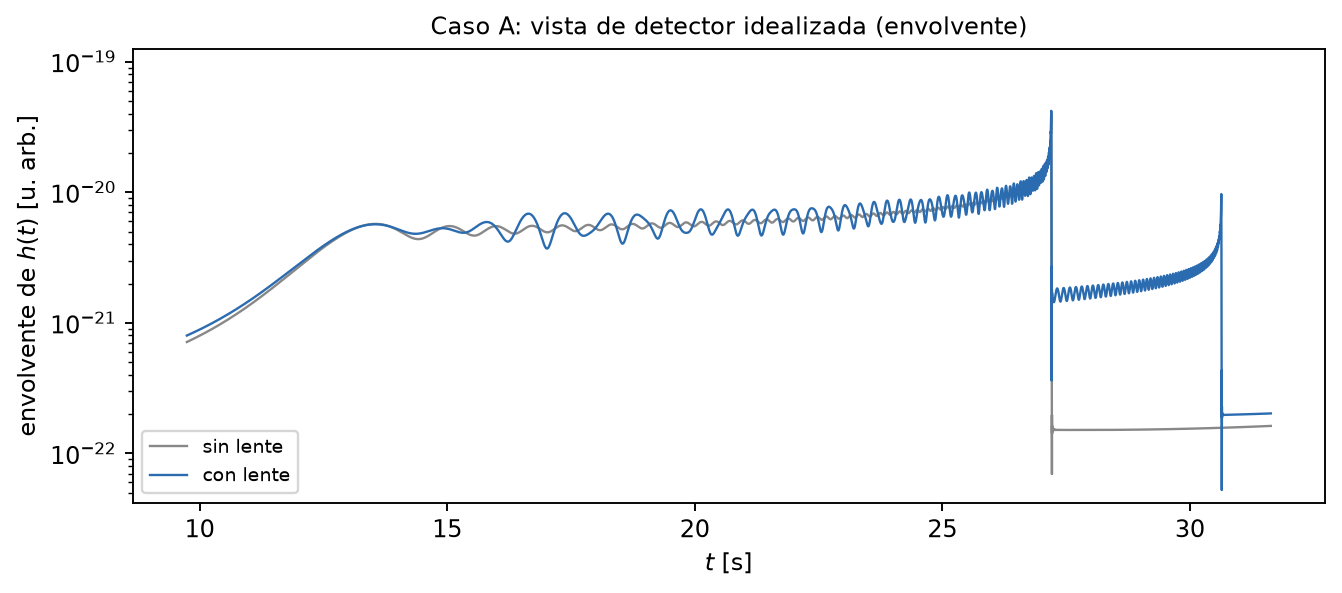
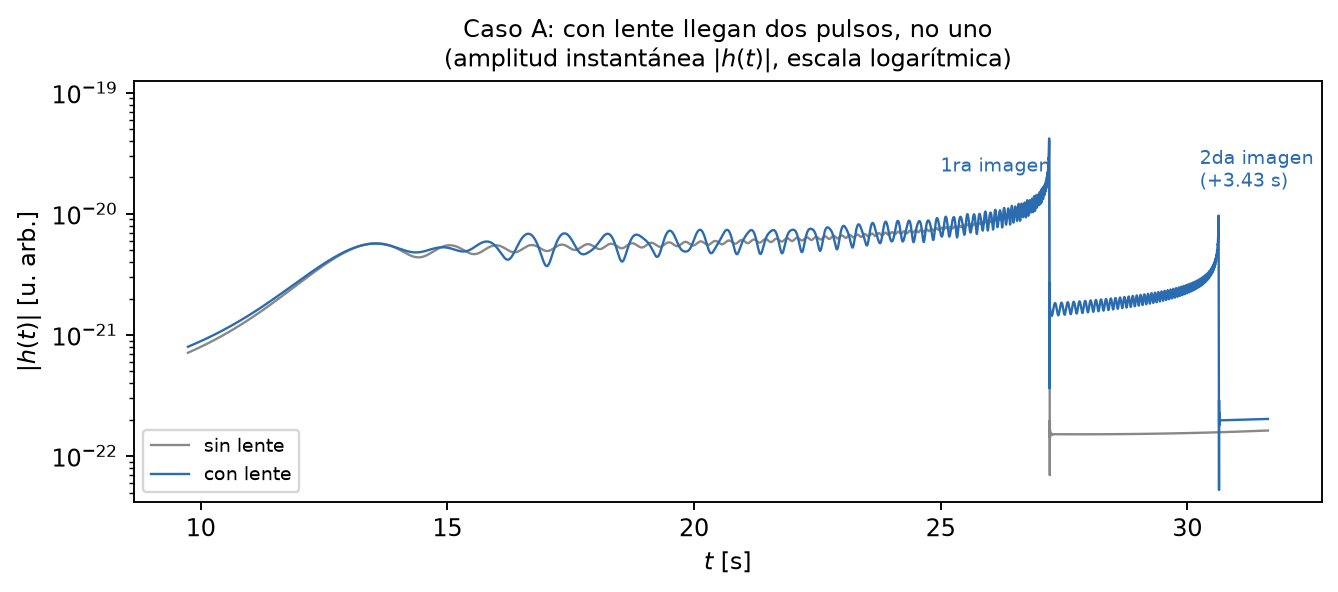
Show the interference as a ratio, and say what the detector figure is
caseA_strain_time.png's fourth panel was the difference of the two waveforms.
It is now the ratio, which is a different statement and the one the figure is
for. Dividing the lensed analytic signal by the unlensed one leaves |F|, and
since the chirp sweeps frequency monotonically, plotting that against time
sweeps out F's interference fringes: the curve runs between
sqrt(mu_+) -/+ sqrt(|mu_-|) from end to end, and the fringes crowd towards
the merger because df/dt does -- 1.0 fringes per second at 10 Hz against 93
per second at 36 Hz. It is caseA_F_of_f.png's constant 0.29 Hz fringe period
seen through f(t). The difference instead isolated the second image as a
delayed copy, which is about arrival times; the second image is already
visible in the second panel and is now labelled outright in the detector
figure.

caseA_detector_envelope.png was titled "vista de detector idealizada
(envolvente)", which named what the figure is made of rather than what it
shows, and "envolvente" was doing too much work. It is a time-domain figure,
not a spectrum: the y axis is now |h(t)|, the instantaneous amplitude, and
the title says the finding -- with the lens a detector records two arrivals
where there was one event. Both arrivals are labelled on the curve.

The ripple on the unlensed envelope, measured rather than guessed. It is an
artefact of building the waveform in the frequency domain with a hard band
edge at f_lower=10 Hz and transforming back: a chirp whose spectrum is cut
[…]

diff --git a/cases/case_A_chirp/run.py b/cases/case_A_chirp/run.py
@@ -500,21 +500,31 @@ def main():
     axes[2].set_title("ampliación: la primera imagen", fontsize=9.5)
     axes[2].legend(loc="lower left", fontsize=8)
 
-    # Windowed on the merger and the echo, not on the whole chirp: over the
-    # full 15 s the (sqrt(mu_+)-1) residual under the inspiral is a dense
-    # green band that fills the panel and visually buries the very feature
-    # the subtraction exists to expose. From half a second before the merger
-    # to half a second after the echo, the two things left are the 3%
-    # residual of the merger itself and, Delta_T later, the second image at
-    # its full sqrt(|mu_-|) -- roughly 8x taller, against a flat zero.
-    dview = (t >= t_peak - 0.5) & (t <= echo_t + 0.5)
-    axes[3].plot(t[dview] - t_peak, h_diff[dview], lw=0.7, color="#2ca02c")
-    axes[3].axvline(NUMBERS["image_time_delay_seconds"], color="0.55", lw=0.9, ls=":")
+    # The RATIO of the envelopes, not their difference. The difference isolates
+    # the second image -- a delayed copy of the whole signal -- which is a
+    # statement about arrival times. The ratio is a statement about
+    # interference, which is what the lens actually does to the waveform here:
+    # dividing the lensed analytic signal by the unlensed one leaves |F|, and
+    # because the chirp sweeps frequency monotonically, plotting it against
+    # time sweeps out F's interference fringes. It oscillates between
+    # sqrt(mu_+) -/+ sqrt(|mu_-|) throughout, and the fringes crowd together
+    # towards the merger because df/dt does: measured, 1.0 fringes per second
+    # at 10 Hz against 93 per second at 36 Hz. The fringe period is constant
+    # in FREQUENCY (0.29 Hz, caseA_F_of_f.png); this is that same curve seen
+    # through f(t).
+    #
+    # Cut before the merger: past it the unlensed signal decays into the
+    # ringdown while the lensed one still carries the second image, so the
+    # ratio stops measuring interference and starts diverging.
+    rview = (t >= t_peak - NUMBERS["t_end_seconds"] + 1.0) & (t <= t_peak - 0.25)
+    ratio = np.abs(env_l[rview]) / np.abs(env_u[rview])
+    axes[3].plot(t[rview] - t_peak, ratio, lw=0.6, color="#6b46c1")
+    for lvl in (sqrt_mu_plus - sqrt_mu_minus, sqrt_mu_plus + sqrt_mu_minus):
+        axes[3].axhline(lvl, color="#c05621", lw=0.9, ls="--")
     axes[3].set_xlabel(r"$t - t_\mathrm{merger}$ [s]")
-    axes[3].set_ylabel("$h_{\\rm lente}-h_{\\rm sin}$ [u. arb.]")
-    axes[3].set_title(
-        f"la resta: la segunda imagen, en "
-        f"$+{NUMBERS['image_time_delay_seconds']:.2f}$ s", fontsize=9.5)
+    axes[3].set_ylabel("con lente / sin lente")
+    axes[3].set_title("el cociente: la interferencia entre las dos imágenes",
+                      fontsize=9.5)
     fig.tight_layout()   # before the suptitle; see caseA_F_of_f above for why
     fig.suptitle("Caso A: qué le hace el lente a la forma de onda",
                  fontsize=11, y=1.012)
@@ -623,10 +633,21 @@ def main():
     # same window as Figure 2's overview panel above -- identical expression, reused rather than rebuilt
     ax.plot(t[view], env_u[view], color="#888888", lw=1.0, label="sin lente")
     ax.plot(t[view], env_l[view], color="#2b6cb0", lw=1.0, label="con lente")
+    ax.annotate("1ra imagen", xy=(t_peak, float(np.max(env_l))),
+                xytext=(-46, -14), textcoords="offset points", fontsize=8,
+                color="#2b6cb0")
+    ax.annotate("2da imagen\n($+%.2f$ s)" % (echo_t - t_peak),
+                xy=(echo_t, NUMBERS["echo_peak_env_lensed"]),
+                xytext=(-8, 12), textcoords="offset points", fontsize=8,
+                color="#2b6cb0")
     ax.set_yscale("log")
     ax.set_xlabel("$t$ [s]")
-    ax.set_ylabel("envolvente de $h(t)$ [u. arb.]")
-    ax.set_title("Caso A: vista de detector idealizada (envolvente)", fontsize=10)
+    ax.set_ylabel("$|h(t)|$ [u. arb.]")
+    # Retitled: "vista de detector idealizada (envolvente)" said what the
+    # figure was made of, not what it shows. What it shows is that the lens
+    # turns one event into two arrivals.
+    ax.set_title("Caso A: con lente llegan dos pulsos, no uno\n"
+                 "(amplitud instantánea $|h(t)|$, escala logarítmica)", fontsize=10)
     # Lower left: the top right of this axes is where the merger peak and the
     # echo both are, and a legend there covered them. The green band that
     # used to mark the echo is gone for the same reason -- it shaded the

diff --git a/report/report.tex b/report/report.tex
@@ -121,13 +121,16 @@ arbitrarias, $D_\mathrm{eff}=5$ kpc --- un evento hipot\'etico
 ilustrativamente fuerte y cercano, no una distancia realista en tasa de
 eventos). De arriba abajo: la se\~nal sin lente; la misma con lente, en la
 misma escala, donde a simple vista no se distingue nada salvo el eco
-tard\'io; una ampliaci\'on centrada en la primera imagen; y la
-\textbf{resta} de las dos. La resta es donde el lensing se vuelve visible,
-y por una raz\'on concreta: en \'optica geom\'etrica
-$h_\mathrm{lente}-h_\mathrm{sin}=(\sqrt{\mu_+}-1)\,h(t)+\sqrt{|\mu_-|}\,h(t-\Delta T)$,
-as\'i que restar deja a la segunda imagen sola, repitiendo el chirp, el
-merger y el ringdown enteros $\Delta T$ m\'as tarde al $24\%$ de amplitud
-contra un cero plano.}
+tard\'io; una ampliaci\'on centrada en la primera imagen; y el
+\textbf{cociente} de las dos. El cociente es donde el lensing se vuelve
+visible: dividir la se\~nal anal\'itica lensada por la no lensada deja
+$|F|$, y como el chirp barre frecuencia mon\'otonamente, graficarlo contra
+el tiempo despliega las franjas de interferencia de $F$. Oscila entre
+$\sqrt{\mu_+}\mp\sqrt{|\mu_-|}$ (l\'ineas punteadas) de punta a punta, y las
+franjas se aprietan hacia el merger porque $df/dt$ crece: 1.0 franjas por
+segundo a 10~Hz contra 93 por segundo a 36~Hz. El per\'iodo de franja es
+constante en \emph{frecuencia} (0.29~Hz, primera figura); esta es la misma
+curva vista a trav\'es de $f(t)$.}
 \end{figure}
 
 La amplificaci\'on de la muestra pico es $1.065$ (la muestra $|h(t)|$

diff --git a/cases/FIGURES.md b/cases/FIGURES.md
@@ -49,23 +49,31 @@ panels now use their own dense grid.
 ### `caseA_strain_time.png` — what the lens does to the waveform
 
 Four panels: unlensed strain, lensed strain **on the same scale**, a zoom
-centred on the merger, and the **difference**.
+centred on the merger, and the **ratio** of the two.
 
 The first two are separate panels rather than one overlay. At this time
 resolution the two curves are indistinguishable — which is the point, and is
 worth seeing — and drawing one on top of the other simply hid the lower one.
 
-The fourth panel is where the lensing becomes visible, and it is the answer to
-"does subtracting the two make sense?". It does, and for a specific reason. In
-geometric optics `F = √μ₊ − i√|μ₋| e^{iwΔT}`, so
+The fourth panel is where the lensing becomes visible. It is the **ratio**,
+not the difference, and the distinction matters. Dividing the lensed analytic
+signal by the unlensed one leaves `|F|`, and because the chirp sweeps
+frequency monotonically, plotting that against time sweeps out F's
+interference fringes. The curve oscillates between `√μ₊ ∓ √|μ₋|` (drawn as
+dashed lines) from end to end, and the fringes crowd together towards the
+merger because `df/dt` does: **1.0 fringes per second at 10 Hz against 93 per
+second at 36 Hz**. The fringe period is constant in *frequency* (0.29 Hz,
+`caseA_F_of_f.png`); this is the same curve seen through `f(t)`.
 
-    h_lensed − h_unlensed = (√μ₊ − 1)·h(t) + √|μ₋|·h(t − ΔT)
+A previous version plotted the difference instead. That is a different
+statement — `h_lensed − h_unlensed = (√μ₊−1)h(t) + √|μ₋|h(t−ΔT)`, so
+subtracting isolates the second image as a delayed copy — which is about
+arrival times, not about interference. The second image is already visible in
+the second panel and labelled in `caseA_detector_envelope.png`.
 
-The first term is 3% of the signal and rides under the chirp. The second is a
-**full copy** of the signal at 24%, delayed by `ΔT`. So the subtraction
-isolates the second image and shows it replaying the entire inspiral, merger
-and ringdown against a flat zero, `ΔT` late. That is the causality signature
-of lensing, as directly as it can be drawn.
+The panel stops before the merger. Past it the unlensed signal decays into
+the ringdown while the lensed one still carries the second image, so the
+ratio stops measuring interference and starts diverging.
 
 ### `caseA_diffraction_pattern.png` — the pattern in the source plane
 
@@ -77,11 +85,28 @@ and `|Δy| < 0.02` on the right, where `w = 778` makes the fringe period
 lost by cropping — the pattern is axisymmetric, and the outer rings are more
 of the same.
 
-### `caseA_detector_envelope.png` — what a detector would record
+### `caseA_detector_envelope.png` — two arrivals, not one
 
-The strain envelope, log scale, lensed against unlensed. Two peaks: the merger,
-and 3.43 s later the echo, a factor ~4 lower (`√|μ₋| = 0.24`). No noise, no
-antenna pattern, no PSD — an idealized view, and labelled as one.
+This is a **time-domain** figure, not a spectrum. It plots `|h(t)|`, the
+instantaneous amplitude: `h(t)` oscillates far too fast to draw over 20
+seconds, so what is drawn is the curve that runs along its peaks — the
+magnitude of the analytic signal, from a Hilbert transform. Log vertical
+axis.
+
+The point is the single sentence in the title: with the lens, a detector
+records **two arrivals** where there was one event. The first is the merger;
+3.43 s later comes the second image, a factor ~4 lower (`√|μ₋| = 0.24`), both
+now labelled on the figure. No noise, no antenna pattern, no PSD — an
+idealized view, and labelled as one.
+
+The small ripple on the **unlensed** curve early on is not physical. The
+waveform is generated in the frequency domain, band-limited with a hard start
+at `f_lower = 10 Hz`, and inverse-transformed; a chirp whose spectrum is cut
+off abruptly rings at the corresponding time. Measured: 20% peak-to-peak just
+after the signal turns on, decaying to 4.6% near the merger. It is not the
+Hilbert transform (building the analytic signal directly gives the same) and
+not insufficient padding (2x, 4x and 8x give 0.2795, 0.2776, 0.2771). A real
+inspiral envelope is monotonic, `h ∝ f^(2/3)`.
 
 ---
 
